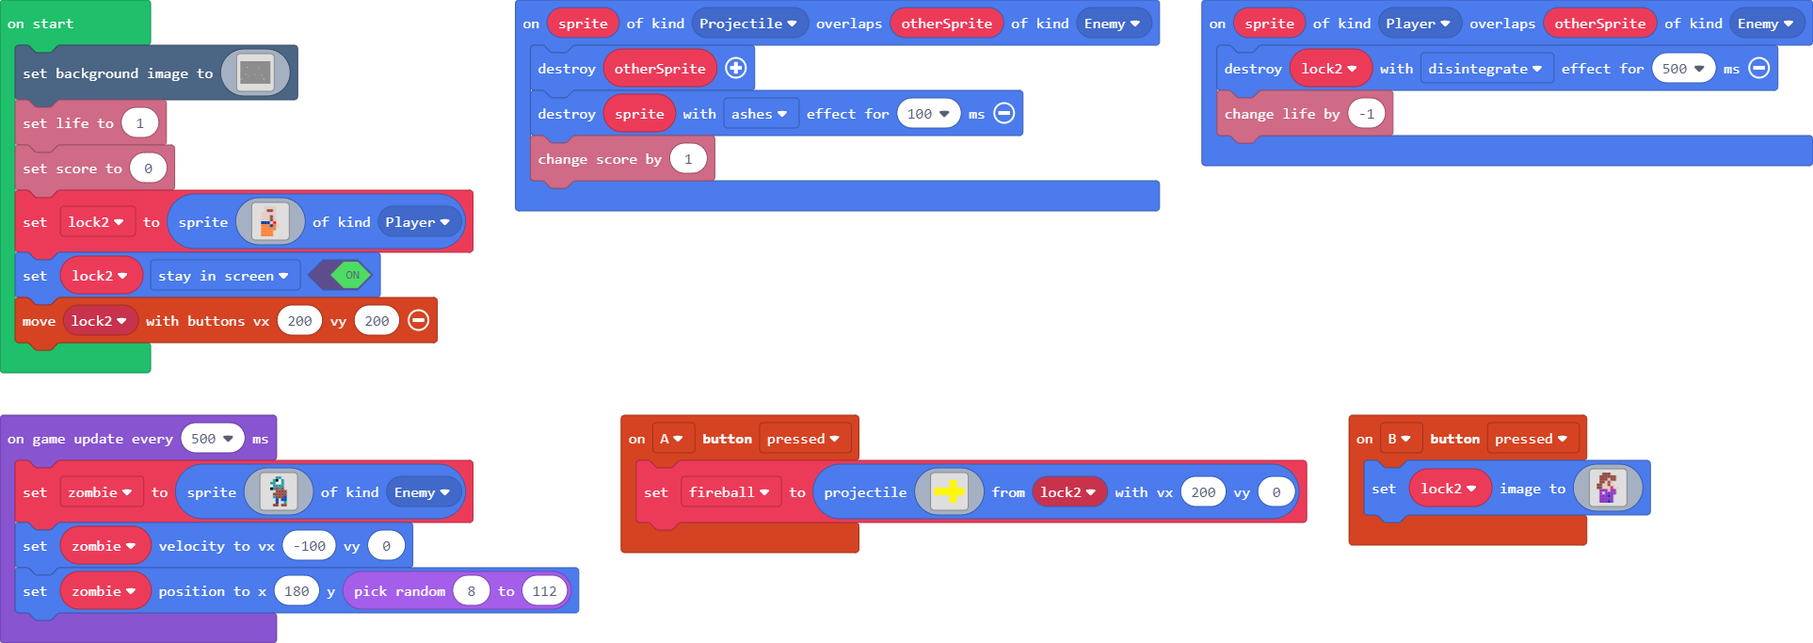
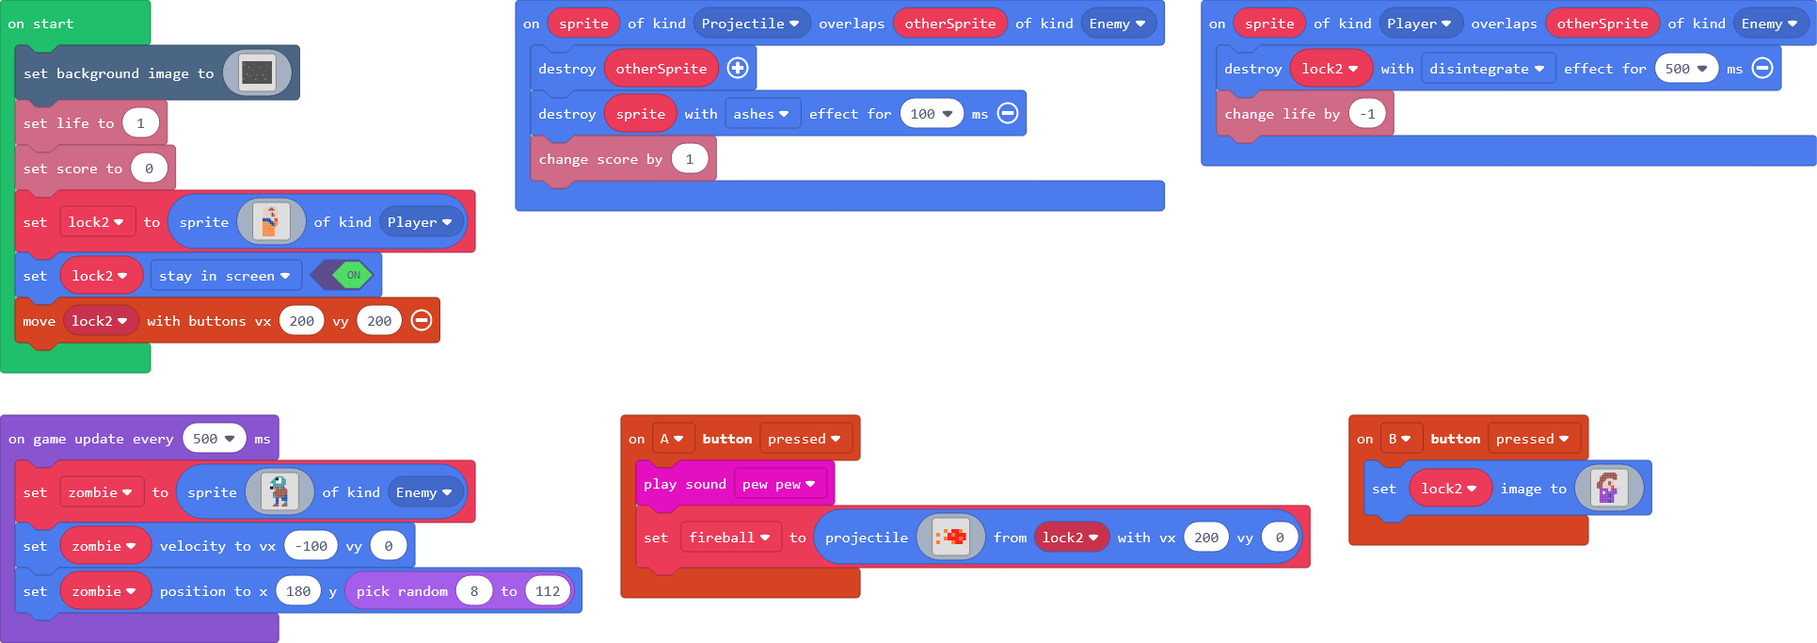
Made sprites larger

diff --git a/main.ts b/main.ts
@@ -1,16 +1,26 @@
 controller.B.onEvent(ControllerButtonEvent.Pressed, function () {
     lock2.setImage(img`
-. . e e e . . . 
-. e e e e e e . 
-. e e e d e e . 
-. e e d e d . . 
-e e d d e d . . 
-e e d d d 2 . d 
-. a a a d a a . 
-. a d a a a a . 
-. a a a 8 a . . 
-. a a a a a . . 
-. a a a 8 a . . 
+. . . . . e e e e e e e e . . . 
+. . . . e e e e e e e e e e . . 
+. . . e e e e e e e e e e e . . 
+. . e e e e e e e e e e e e . . 
+. . e e e e e d d d d e e e . . 
+. . e e e e d d d d d d . . . . 
+. e e e e d d d e e d d . . . . 
+e e e e d d d d e e d d . . . . 
+e e e e d d d d e e d d . . . . 
+e e e e d d d d d d 2 2 . . . . 
+e e e e d d d d d d 2 2 . . d d 
+. . a a a a a a d d a a a a d d 
+. . a a a a a a d d a a a a . . 
+. . a a d d a a a a a a a a . . 
+. . a a d d a a a a a a a a . . 
+. . a a a a a a 8 8 a a . . . . 
+. . a a a a a a 8 8 a a . . . . 
+. . a a a a a a a a a a . . . . 
+. . a a a a a a a a a a . . . . 
+. . a a a a a a 8 8 a a . . . . 
+. . a a a a a a 8 8 a a . . . . 
 `)
 })
 sprites.onOverlap(SpriteKind.Projectile, SpriteKind.Enemy, function (sprite, otherSprite) {
@@ -19,10 +29,14 @@ sprites.onOverlap(SpriteKind.Projectile, SpriteKind.Enemy, function (sprite, oth
     info.changeScoreBy(1)
 })
 controller.A.onEvent(ControllerButtonEvent.Pressed, function () {
+    music.pewPew.play()
     fireball = sprites.createProjectileFromSprite(img`
-. . 5 . 
-5 5 5 5 
-. . 5 . 
+. . . . . . . . 
+. . 4 . 2 2 4 . 
+4 . . 2 4 2 2 2 
+. . 4 2 2 2 4 2 
+4 . . . 4 2 2 . 
+. . . . . . . . 
 `, lock2, 200, 0)
 })
 sprites.onOverlap(SpriteKind.Player, SpriteKind.Enemy, function (sprite, otherSprite) {
@@ -46,15 +60,15 @@ f f f f f f f f f f f f f f f f f f f f f f f f f f f f f f f f f f f f f f f f 
 f f f f f f f f f f f f f f f f f f f f f f f f f f f f f f f f f f f f f f f f f f f f f f f f f f f f f f f f f f f f f f f f f f f f f f f f f f f f f f f f f f f f f f f f f f f f f f f f f f f f f f f f f f f f f f f f f f f f f f f f f f f f f f f f f f f f f f f f f f f f f f f f f f f f f f f f f f f f f f f f 
 f f f f f f f f f f f f f f f f f f f f f f f f f f f f f f f f f f f f f f f f f f f f f f f f f f f f f f f f f f f f f f f f f f f f f f f f f f f f f f f f f f f f f f f f f f f f f f f f f f f f f f f f f f f f f f f f f f f f f f f f f f f f f f f f f f f f f f f f f f f f f f f f f f f f f f f f f f f f f f f f 
 f f f f f f f f f f f f f f f f f f f f f f f f f f f f f f f f f f f f f f f f f f f f f f f f f f f f f f f f f f f f f f f f f f f f f f f f f f f f f f f f f f f f f f f f f f f f f f f f f f f f f f f f f f f f f f f f f f f f f f f f f f f f f f f f f f f f f f f f f f f f f f f f f f f f f f f f f f f f f f f f 
-f f f f f f f f f f f f f f f f f f f f f f f f f f f f f f f f f f f f f f f f f f f f f f f f f f f f f f f f f f f f f f f f f f f f f f f f f f f f f f f f f f f f f f f f f f f f f f f f f f f f f f f f f f f f f f f f f f f f f f f f f f f f f f f f f f f f f f f f f f f f f f f f f f f f f f f f f f f f f f f f 
-f f f f f f f f f f f f f f f f f f f f f f f f f f f f f f f f f f f f f f f f f f f f f f f f f f f f f f f f f f f f f f f f f f f f f f f f f f f f f f f f f f f f f f f f f f f f f f f f f f f f f f f f f f f f f f f f f f f f f f f f f f f f f f f f f f f f f f f f f f f f f f f f f f f f f f f f f f f f f f f f 
-f f f f f f f f f f f f f f f f f f f f f f f f f f f f f f f f f f f f f f f f f f f f f f f f f f f f f f f f f f f f f f f f f f f f f f f f f f f f f f f f f f f f f f f f f f f f f f f f f f f f f f f f f f f f f f f f f f f f f f f f f f f f f f f f f f f f f f f f f f f f f f f f f f f f f f f f f f f f f f f f 
-f f f f f f f f f f f f f f f f f f f f f f f f f f f f f f f f f f f f f f f f f f f f f f f f f f f f f f f f f f f f f f f f f f f f f f f f f f f f f f f f f f f f f f f f f f f f f f f f f f f f f f f f f f f f f f f f f f f f f f f f f f f f f f f f f f f f f f f f f f f f f f f f f f f f f f f f f f f f f f f f 
-f f f f f f f f f f f f f f f f f f f f f f f f f f f f f f f f f f f f f f f f f f f f f f f f f f f f f f f f f f f f f f f f f f f f f f f f f f f f f f f f f f f f f f f f f f f f f f f f f f f f f f f f f f f f f f f f f f f f f f f f f f f f f f f f f f f f f f f f f f f f f f f f f f f f f f f f f f f f f f f f 
-f f f f f f f f f f f f f f f f f f f f f f f f f f f f f f f f f f f f f f f f f f f f f f f f f f f f f f f f f f f f f f f f f f f f f f f f f f f f f f f f f f f f f f f f f f f f f f f f f f f f f f f f f f f f f f f f f f f f f f f f f f f f f f f f f f f f f f f f f f f f f f f f f f f f f f f f f f f f f f f f 
-f f f f f f f f f f f f f f f f f f f f f f f f f f f f f f f f f f f f f f f f f f f f f f f f f f f f f f f f f f f f f f f f f f f f f f f f f f f f f f f f f f f f f f f f f f f f f f f f f f f f f f f f f f f f f f f f f f f f f f f f f f f f f f f f f f f f f f f f f f f f f f f f f f f f f f f f f f f f f f f f 
-f f f f f f f f f f f f f f f f f f f f f f f f f f f f f f f f f f f f f f f f f f f f f f f f f f f f f f f f f f f f f f f f f f f f f f f f f f f f f f f f f f f f f f f f f f f f f f f f f f f f f f f f f f f f f f f f f f f f f f f f f f f f f f f f f f f f f f f f f f f f f f f f f f f f f f f f f f f f f f f f 
-f f f f f f f f f f f f f f f f f f f f f f f f f f f f f f f f f f f f f f f f f f f f f f f f f f f f f f f f f f f f f f f f f f f f f f f f f f f f f f f f f f f f f f f f f f f f f f f f f f f f f f f f f f f f f f f f f f f f f f f f f f f f f f f f f f f f f f f f f f f f f f f f f f f f f f f f f f f f f f f f 
+f f f f f f f f f f f f f d d d d d f f f f f f f f f f f f f f f f f f f f f f f f f f f f f f f f f f f f f f f f f f f d f f d f f f f f f f f f f f f f f f f f f f f f f f f f f f f f f f f f f f f f f f f f f f f f f f f f f f f f f f f f f f f f f f f f f f f f f f f f f f f f f f f f f f f f f f f f f f f f f f 
+f f f f f f f f f f f f f d f f f f d f f f f f f f f f f f f f f f f f f f f f f f f f f f f f f f f f f f f f f f f f f f d d f f f f f f f f f f f f f f f f f f f f f f f f f f f f f f f f f f f f f f f f f f f f f f f f f f f f f f f f f f f f f f f f f f f f f f f f f f f f f f f f f f f f f f f f f f f f f f f f 
+f f f f f f f f f f f f f d f f f f d f f f f f f f f f f f f f f f f f f f f f f f f f f f f f f f f f f f f f f f f f f d f f d f f f f f f f f f f f f f f f f f f f f f f f f f f f f f f f f f f f f f f f f f f f f f f f f f f f f f f f f f f f f f f f f f f f f f f f f f f f f f f f f f f f f f f f f f f f f f f f 
+f f f f f f f f f f f f f d f d d f d f f f f f f f f f f f f f f f f f f f f f f f f f f f f f f f f f f f f f f f f f f f f f f f f f f f f f f f f f f f f f f f f f f f f f f f f f f f f f f f f f f f f f f f f f f f f f f f f f f f f f f f f f f f f f f f f f f f f f f f f f f f f f f f f f f f f f f f f f f f f f 
+f f f f f f f f f f f f f d f f f f d f f f f f f f f f f f f f f f f f f f f f f f f f f f f f f f f f f f f f f f f f f f f f f f f f f f f f f f f f f f f f f f f f f f f f f f f f f f f f f f f f f f f f f f f f f f f f f f f f f f f f f f f f f f f f f f f f f f f f f f f f f f f f f f f f f f f f f f f f f f f f 
+f f f f f f f f f f f f f d f f f f d f f f f f f f f f f f f f f f f f f f f f f f f f f f f f f f f f f f f f f f f f f f f f f f f f f f f f f f f f f f f f f f f f f f f f f f f f f f f f f f f f f f f f f f f f f f f f f f f f f f f f f f f f f f f f f f f f f f f f f f f f f f f f f f f f f f f f f f f f f f f f 
+f f f f f f f f f f f f f f f f f f f f f f f f f f f f f f f f f f f f f f f f f f f f f f f f f f f f f f f f f f f f f f f f f f f f f f f f f f f f f f f f f f f f f f f f f f f f f f f f f f f f f f f f f f f f f f f f f f f f f f f f f f f f f f f f f f f f d f f f f d f f f f f f f f f f f f f f f f f f f f f f 
+f f f f f f f f f f f f f f f f f f f f f f f f f f f f f f f f f f f f f f f f f f f f f f f f f f f f f f f f f f f f f f f f f f f f f f f f f f f f f f f f f f f f f f f f f f f f f f f f f f f f f f f f f f f f f f f f f f f f f f f f f f f f f f f f f f f f f d d d d f f f f f f f f f f f f f f f f f f f f f f f 
+f f f f f f f f f f f f f f f f f f f f f f f f f f f f f f f f f f f f f f f f f f f f f f f f f f f f f f f f f f f f f f f f f f f f f f f f f f f f f f f f f f f f f f f f f f f f f f f f f f f f f f f f f f f f f f f f f f f f f f f f f f f f f f f f f f f f d f f f f d f f f f f f f f f f f f f f f f f f f f f f 
 f f f f f f f f f f f f f f f f f f f f f f f f f f f f f f f f f f f f f f f f f f f f f f f f f f f f f f f f f f f f f f f f f f f f f f f f f f f f f f f f f f f f f f f f f f f f f f f f f f f f f f f f f f f f f f f f f f f f f f f f f f f f f f f f f f f f f f f f f f f f f f f f f f f f f f f f f f f f f f f f 
 f f f f f f f f f f f f f f f f f f f f f f f f f f f f f f f f f f f f f f f f f f f f f f f f f f f f f f f f f f f f f f f f f f f f f f f f f f f f f f f f f f f f f f f f f f f f f f f f f f f f f f f f f f f f f f f f f f f f f f f f f f f f f f f f f f f f f f f f f f f f f f f f f f f f f f f f f f f f f f f f 
 f f f f f f f f f f f f f f f f f f f f f f f f f f f f f f f f f f f f f f f f f f f f f f f f f f f f f f f f f f f f f f f f f f f f f f f f f f f f f f f f f f f f f f f f f f f f f f f f f f f f f f f f f f f f f f f f f f f f f f f f f f f f f f f f f f f f f f f f f f f f f f f f f f f f f f f f f f f f f f f f 
@@ -79,12 +93,12 @@ f f f f f f f f f f f f f f f f f f f f f f f f f f f f f f f f f f f f f f f f 
 f f f f f f f f f f f f f f f f f f f f f f f f f f f f f f f f f f f f f f f f f f f f f f f f f f f f f f f f f f f f f f f f f f f f f f f f f f f f f f f f f f f f f f f f f f f f f f f f f f f f f f f f f f f f f f f f f f f f f f f f f f f f f f f f f f f f f f f f f f f f f f f f f f f f f f f f f f f f f f f f 
 f f f f f f f f f f f f f f f f f f f f f f f f f f f f f f f f f f f f f f f f f f f f f f f f f f f f f f f f f f f f f f f f f f f f f f f f f f f f f f f f f f f f f f f f f f f f f f f f f f f f f f f f f f f f f f f f f f f f f f f f f f f f f f f f f f f f f f f f f f f f f f f f f f f f f f f f f f f f f f f f 
 f f f f f f f f f f f f f f f f f f f f f f f f f f f f f f f f f f f f f f f f f f f f f f f f f f f f f f f f f f f f f f f f f f f f f f f f f f f f f f f f f f f f f f f f f f f f f f f f f f f f f f f f f f f f f f f f f f f f f f f f f f f f f f f f f f f f f f f f f f f f f f f f f f f f f f f f f f f f f f f f 
+f f f f f f f f f f f f f f f f f f f f f f f f f f f f f f f f f f f f f f f f f f f f f f f f f f f f f f f f f f f f f d d f f f f f f f f f f f f f f f f f f f f f f f f f f f f f f f f f f f f f f f f f f f f f f f f f f f f f f f f f f f f f f f f f f f f f f f f f f f f f f f f f f f f f f f f f f f f f f f f f 
+f f f f f f f f f f f f f f f f f f f f f f f f f f f f f f f f f f f f f f f f f f f f f f f f f f f f f f f f f f f d d f f d f f f f f f f f f f f f f f f f f f f f f f f f f f f f f f f f f f f f f f f f f f f f f f f f f f f f f f f f f f f f f f f f f f f f f f f f f f f f f f f f f f f f f f f f f f f f f f f f 
 f f f f f f f f f f f f f f f f f f f f f f f f f f f f f f f f f f f f f f f f f f f f f f f f f f f f f f f f f f f f f f f f f f f f f f f f f f f f f f f f f f f f f f f f f f f f f f f f f f f f f f f f f f f f f f f f f f f f f f f f f f f f f f f f f f f f f f f f f f f f f f f f f f f f f f f f f f f f f f f f 
 f f f f f f f f f f f f f f f f f f f f f f f f f f f f f f f f f f f f f f f f f f f f f f f f f f f f f f f f f f f f f f f f f f f f f f f f f f f f f f f f f f f f f f f f f f f f f f f f f f f f f f f f f f f f f f f f f f f f f f f f f f f f f f f f f f f f f f f f f f f f f f f f f f f f f f f f f f f f f f f f 
 f f f f f f f f f f f f f f f f f f f f f f f f f f f f f f f f f f f f f f f f f f f f f f f f f f f f f f f f f f f f f f f f f f f f f f f f f f f f f f f f f f f f f f f f f f f f f f f f f f f f f f f f f f f f f f f f f f f f f f f f f f f f f f f f f f f f f f f f f f f f f f f f f f f f f f f f f f f f f f f f 
-f f f f f f f f f f f f f f f f f f f f f f f f f f f f f f f f f f f f f f f f f f f f f f f f f f f f f f f f f f f f f f f f f f f f f f f f f f f f f f f f f f f f f f f f f f f f f f f f f f f f f f f f f f f f f f f f f f f f f f f f f f f f f f f f f f f f f f f f f f f f f f f f f f f f f f f f f f f f f f f f 
-f f f f f f f f f f f f f f f f f f f f f f f f f f f f f f f f f f f f f f f f f f f f f f f f f f f f f f f f f f f f f f f f f f f f f f f f f f f f f f f f f f f f f f f f f f f f f f f f f f f f f f f f f f f f f f f f f f f f f f f f f f f f f f f f f f f f f f f f f f f f f f f f f f f f f f f f f f f f f f f f 
-f f f f f f f f f f f f f f f f f f f f f f f f f f f f f f f f f f f f f f f f f f f f f f f f f f f f f f f f f f f f f f f f f f f f f f f f f f f f f f f f f f f f f f f f f f f f f f f f f f f f f f f f f f f f f f f f f f f f f f f f f f f f f f f f f f f f f f f f f f f f f f f f f f f f f f f f f f f f f f f f 
+f f f f f f f f f f f f f f f f f f f f f f f f f f f f f f f f f f f f f f f f f f f f f f f f f f f f f f f f f f f f f f f f f f f f f f f f f f f f f f f f f f f f f f f f f f f f f f f f f f f f f f f f f f f f f f f f f f f f f f f f f f f f d d d f f f f f f f f f f f f f f f f f f f f f f f f f f f f f f f f f 
 f f f f f f f f f f f f f f f f f f f f f f f f f f f f f f f f f f f f f f f f f f f f f f f f f f f f f f f f f f f f f f f f f f f f f f f f f f f f f f f f f f f f f f f f f f f f f f f f f f f f f f f f f f f f f f f f f f f f f f f f f f f f f f f f f f f f f f f f f f f f f f f f f f f f f f f f f f f f f f f f 
 f f f f f f f f f f f f f f f f f f f f f f f f f f f f f f f f f f f f f f f f f f f f f f f f f f f f f f f f f f f f f f f f f f f f f f f f f f f f f f f f f f f f f f f f f f f f f f f f f f f f f f f f f f f f f f f f f f f f f f f f f f f f f f f f f f f f f f f f f f f f f f f f f f f f f f f f f f f f f f f f 
 f f f f f f f f f f f f f f f f f f f f f f f f f f f f f f f f f f f f f f f f f f f f f f f f f f f f f f f f f f f f f f f f f f f f f f f f f f f f f f f f f f f f f f f f f f f f f f f f f f f f f f f f f f f f f f f f f f f f f f f f f f f f f f f f f f f f f f f f f f f f f f f f f f f f f f f f f f f f f f f f 
@@ -104,16 +118,16 @@ f f f f f f f f f f f f f f f f f f f f f f f f f f d f f f d f f f f f f f f f 
 f f f f f f f f f f f f f f f f f f f f f f f f f f d f f d f d f f f f f f f f f f f f f f f f f f f f f f f f f f f f f f f f f f f f f f f f f f f f f f f f f f f f f f f f f f f f f f f f f f f f f f f f f f f f f f f f f f f f f f f f f f f f f f f f f f f f f f f f f f f f f f f f f f f f f f f f f f f f f f f f 
 f f f f f f f f f f f f f f f f f f f f f f f f f f d f d f d f d f f f f f f f f f f f f f f f f f f f f f f f f f f f f f f f f f f f f f f f f f f f f f f f f f f f f f f f f f f f f f f f f f f f f f f f f f f f f f f f f f f f f f f f f f f f f f f f f f f f f f f f f f f f f f f f f f f f f f f f f f f f f f f f 
 f f f f f f f f f f f f f f f f f f f f f f f f f f d f f d f f d f f f f f f f f f f f f f f f f f f f f f f f f f f f f f f f f f f f f f f f f f f f d d d f f f f f f f f f f f f f f f f f f f f f f f f f f f f f f f f f f f f f f f f f f f f f f f f f f f f f f f f f f f f f f f f f f f f f f f f f f f f f f f f f 
-f f f f f f f f f f f f f f f f f f f f f f f f f f d f f d f f d f f f f f f f f f f f f f f f f f f f f f f f f f f f f f f f f f f f f f f f f f f f d d d d f f f f f f f f f f f f f f f f f f f f f f f f f f f f f f f f f f f f f f f f f f f f f f f f f f f f f f f f f f f f f f f f f f f f f f f f f f f f f f f f 
-f f f f f f f f f f f f f f f f f f f f f f f f f f d f f f f f d f f f f f f f f f f f f f f f f f f f f f f f f f f f f f f f f f f f f f f f f f f d d d d d d f f f f f f f f f f f f f f f f f f f f f f f f f f f f f f f f f f f f f f f f f f f f f f f f f f f f f f f f f f f f f f f f f f f f f f f f f f f f f f f 
+f f f f f f f f f f f f f f f f f f f f f f f f f f d f f d f f d f f f f f f f f f f f f f f f f f f f f f f f f f f f f f f f f f f f f f f f f f f f d d f d f f f f f f f f f f f f f f f f f f f f f f f f f f f f f f f f f f f f f f f f f f f f f f f f f f f f f f f f f f f f f f f f f f f f f f f f f f f f f f f f 
+f f f f f f f f f f f f f f f f f f f f f f f f f f d f f f f f d f f f f f f f f f f f f f f f f f f f f f f f f f f f f f f f f f f f f f f f f f f d d f d d d f f f f f f f f f f f f f f f f f f f f f f f f f f f f f f f f f f f f f f f f f f f f f f f f f f f f f f f f f f f f f f f f f f f f f f f f f f f f f f f 
 f f f f f f f f f f f f f f f f f f f f f f f f f f f f f f f f f f f f f f f f f f f f f f f f f f f f f f f f f f f f f f f f f f f f f f f f f f f f f f f f f f f f f f f f f f f f f f f f f f f f f f f f f f f f f f f f 1 1 1 1 f f f f f f f f f f f f f f f f f f f f f f f f f f f f f f f f f f f f f f f f f f f f 
 f f f f f f f f f f f f f f f f f f f f f f f f f f f f f f f f f f f f f f f f f f f f f f f f f f f f f f f f f f f f f f f f f f f f f f f f f f f f f f f f f f f f f f f f f f f f f f f f f f f f f f f f f f f f f f f f 1 d 1 d f f f f f f f f f f f f f f f f f f f f f f f f f f f f f f f f f f f f f f f f f f f f 
 f f f f f f f f f f f f f f f f f f f f f f f f f f f f f f f f f f f f f f f f f f f f f f f f f f f f f f f f f f f f f f f f f f f f f f f f f f f f f f f f f f f f f f f f f f f f f f f f f f f f f f f f f f f f f f f f 1 1 1 1 f f f f f f f f f f f f f f f f f f f f f f f f f f f f f f f f f f f f f f f f f f f f 
 f f f f f f f f f f f f f f f f f f f f f f f f f f f f f f f f f f f f f f f f f f f f f f f f f f f f f f f f f f f f f f f f f f f f f f f f f f f f f f f f f f f f f f f f f f f f f f f f f f f f f f f f f f f f f f f f f 1 1 f f f f f f f f f f f f f f f f f f f f f f f f f f f f f f f f f f f f f f f f f f f f f 
 f f f f f f f f f f f f f f f f f f f f f f f f f f f f f f f f f f f f f f f f f f f f f f f f f f f f f f f f f f f f f f f f f f f f f f f f f f f f f f f f f f f f f f f f f f f f f f f f f f f f f f f f f f f f f f f f f d d f f f f f f f f f f f f f f f f f f f f f f f f f f f f f f f f f f f f f f f f f f f f f 
 f f f f f f f f f f f f f f f f f f f f f f f f f f f f f f f f f f f f f f f f f f f f d d d f f f f f f f f f f f f f f f f f f f f f f f f f f f f f f f f f f f f f f f f f f f f f f f f f f f f f f f f f f f f f f f f f f f f f f f f f f f f f f f f f f f f f f f f f f f f f f f f f f f f f f f f f f f f f f f f f 
-f f f f f f f f f f f f f f f f f f f f f f f f f f f f f f f f f f f f f f f f f f f d d d d d f f f f f f f f f f f f f f f f f f f f f f f f f f f f f f f f f f f f f f f f f f f f f f f f f f f f f f f f f f f f f f f f f f f f f f f f f f f f f f f f f f f f f f f f f f f f f f f f f f f f f f f f f f f f f f f f 
-f f f f f f f f f f f f f f f f f f f f f f f f f f f f f f f f f f f f f f f f f f d d d d d d f f f f f f f f f f f f f f f f f f f f f f f f f f f f f f f f f f f f f f f f f f f f f f f f f f f f f f f f f f f f f f f f f f f f f f f f f f f f f f f f f f f f f f f f f f f f f f f f f f f f f f f f f f f f f f f f 
+f f f f f f f f f f f f f f f f f f f f f f f f f f f f f f f f f f f f f f f f f f f d d f d d f f f f f f f f f f f f f f f f f f f f f f f f f f f f f f f f f f f f f f f f f f f f f f f f f f f f f f f f f f f f f f f f f f f f f f f f f f f f f f f f f f f f f f f f f f f f f f f f f f f f f f f f f f f f f f f f 
+f f f f f f f f f f f f f f f f f f f f f f f f f f f f f f f f f f f f f f f f f f d f d d f d f f f f f f f f f f f f f f f f f f f f f f f f f f f f f f f f f f f f f f f f f f f f f f f f f f f f f f f f f f f f f f f f f f f f f f f f f f f f f f f f f f f f f f f f f f f f f f f f f f f f f f f f f f f f f f f f 
 f f f f f f f f f f f f f f f f f f f f f f f f f f f f f f f f f f f f f f f f f f f f f f f f f f f f f f f f f f f f f f f f f f f f f f f f f f f f f f f f f f f f f f f f f f f f f f f f f f f f f f f f f f f f f f f f f f f f f f f f f f f f f f f f f f f f f f f f f f f f f f f f f f f f f f f f f f f f f f f f 
 f f f f f f f f f f f f f f f f f f f f f f f f f f f f f f f f f f f f f f f f f f f f f f f f f f f f f f f f f f f f f f f f f f f f f f f f f f f f f f f f f f f f f f f f f f f f f f f f f f f f f f f f f f f f f f f f f f f f f f f f f f f f f f f f f f f f f f f f f f f f f f f f f f f f f f f f f f f f f f f f 
 f f f f f f f f f f f f f f f f f f f f f f f f f f f f f f f f f f f f f f f f f f f f f f f f f f f f f f f f f f f f f f f f f f f f f f f f f f f f f f f f f f f f f f f f f f f f f f f f f f f f f f f f f f f f f f f f f f f f f f f f f f f f f f f f f f f f f f f f f f f f f f f f f f f f f f f f f f f f f f f f 
@@ -127,19 +141,19 @@ f f f f f f f f f f f f f f f f f f f f f f f f f f f f f f f f f f f f f f f f 
 f f f f f f f f f f f f f f f f f f f f f f f f f f f f f f f f f f f f f f f f f f f f f f f f f f f f f f f f f f f f f f f f f f f f f f f f f f f f f f f f f f f f f f f f f f f f f f f f f f f f f f f f f f f f f f f f f f f f f f f f f f f d d d d f f f f f f f f f f f f f f f f f f f f f f f f f f f f f f f f f 
 f f f f f d d d d d f f f f f f f f f f f f f f f f f f f f f f f f f f f f f f f f f f f f f f f f f f f f f f f f f f f f f f f f f f f f f f f f f f f f f f f f f f f f f f f f f f f f f f f f f f f f f f f f f f f f f f f f f f f f f f f f d f f f f d f f f f f f f f f f f f f f f f f f f f f f f f f f f f f f f f 
 f f f f d f f f f f d f f f f f f f f f f f f f f f f f f f f f f f f f f f f f f f f f f f f f f f f f f f f f f f f f f f f f f f f f f f f f f f f f f f f f f f f f f f f f f f f f f f f f f f f f f f f f f f f f f f f f f f f f f f f f f f d f f f f d f f f f f f f f f f f f f f f f f f f f f f f f f f f f f f f f 
-f f f f d f f d f f d f f f f f f f f f f f f f f f f f f f f f f f f f f f f f f f f f f f f f f f f f f f f f f f f f f f f f f f f f f f f f f f f f f f f f f f f f f f f f f f f f f f f f f f f f f f f f f f f f f f f f f f f f f f f f f f d f d d f d f f f f f f f f f f f f f f f f f f f f f f f f f f f f f f f f 
-f f f f d f d f d f d f f f f f f f f f f f f f f f f f f f f f f f f f f f f f f f f f f f f f f f f f f f f f f f f f f f f f f f f f f f f f f f f f f f f f f f f f f f f f f f f f f f f f f f f f f f f f f f f f f f f f f f f f f f f f f f d f f f f d f f f f f f f f f f f f f f f f f f f f f f f f f f f f f f f f 
-f f f f d f f d f f d f f f f f f f f f f f f f f f f f f f f f f f f f f f f f f f f f f f f f f f f f f f f f f f f f f f f f f f f f f f f f f f f f f f f f f f f f f f f f f f f f f f f f f f f f f f f f f f f f f f f f f f f f f f f f f f d f d d f d f f f f f f f f f f f f f f f f f f f f f f f f f f f f f f f f 
-f f f f d f f d f f d f f f f f f f f f f f f f f f f f f f f f f f f f f f f f f f f f f f f f f f f f f f f f f f f f f f f f f f f f f f f f f f f f f f f f f f f f f f f f f f f f f f f f f f f f f f f f f f f f f f f f f f f f f f f f f f d f f f f d f f f f f f f f f f f f f f f f f f f f f f f f f f f f f f f f 
-f f f f d f f f f f d f f f f f f f f f f f f f f f f f f f f f f f f f f f f f f f f f f f f f f f f f f f f f f f f f f f f f f f f f f f f f f f f f f f f f f f f f f f f f f f f f f f f f f f f f f f f f f f f f f f f f f f f f f f f f f f d f f f f d f f f f f f f f f f f f f f f f f f f f f f f f f f f f f f f f 
+f f f f d f f d f f d f f f f f f f f f f f f f f f f f f f f f f f f f f f f f f f f f f f f f f f f f f f f f f f f f f f f f f f f f f f f d d d d f f f f f f f f f f f f f f f f f f f f f f f f f f f f f f f f f f f f f f f f f f f f f f f d f d d f d f f f f f f f f f f f f f f f f f f f f f f f f f f f f f f f f 
+f f f f d f d f d f d f f f f f f f f f f f f f f f f f f f f f f f f f f f f f f f f f f f f f f f f f f f f f f f f f f f f f f f f f f f f d f f f d d f f f f f f f f f f f f f f f f f f f f f f f f f f f f f f f f f f f f f f f f f f f f f d f f f f d f f f f f f f f f f f f f f f f f f f f f f f f f f f f f f f f 
+f f f f d f f d f f d f f f f f f f f f f f f f f f f f f f f f f f f f f f f f f f f f f f f f f f f f f f f f f f f f f f f f f f f f f f f d f f f f d f f f f f f f f f f f f f f f f f f f f f f f f f f f f f f f f f f f f f f f f f f f f f d f d d f d f f f f f f f f f f f f f f f f f f f f f f f f f f f f f f f f 
+f f f f d f f d f f d f f f f f f f f f f f f f f f f f f f f f f f f f f f f f f f f f f f f f f f f f f f f f f f f f f f f f f f f f f f f d f d d d d f f f f f f f f f f f f f f f f f f f f f f f f f f f f f f f f f f f f f f f f f f f f f d f f f f d f f f f f f f f f f f f f f f f f f f f f f f f f f f f f f f f 
+f f f f d f f f f f d f f f f f f f f f f f f f f f f f f f f f f f f f f f f f f f f f f f f f f f f f f f f f f f f f f f f f f f f f f f f d f f f f d f f f f f f f f f f f f f f f f f f f f f f f f f f f f f f f f f f f f f f f f f f f f f d f f f f d f f f f f f f f f f f f f f f f f f f f f f f f f f f f f f f f 
+f f f f f f f f f f f f f f f f f f f f f f f f f f f f f f f f f f f f f f f f f f f f f f f f f f f f f f f f f f f f f f f f f f f f f f f d f d d f d f f f f f f f f f f f f f f f f f f f f f f f f f f f f f f f f f f f f f f f f f f f f f f f f f f f f f f f f f f f f f f f f f f f f f f f f f f f f f f f f f f f 
+f f f f f f f f f f f f f f f f f f f f f f f f f f f f f f f f f f f f f f f f f f f f f f f f f f f f f f f f f f f f f f f f f f f f f f f d f f f f d f f f f f f f f f f f f f f f f f f f f f f f f f f f f f f f f f f f f f f f f f f f f f f f f f f f f f f f f f f f f f f f f f f f f f f f f f f f f f f f f f f f 
+f f f f f f f f f f f f f f f f f f f f f f f f f f f f f f f f f f f f f f f f f f f f f f f f f f f f f f f f f f f f f f f f f f f f f f f d f f f f d f f f f f f f f f f f f f f f f f f f f f f f f f f f f f f f f f f f f f f f f f f f f f f f f f f f f f f f f f f f f f f f f f f f f f f f f f f f f f f f f f f f 
 f f f f f f f f f f f f f f f f f f f f f f f f f f f f f f f f f f f f f f f f f f f f f f f f f f f f f f f f f f f f f f f f f f f f f f f f f f f f f f f f f f f f f f f f f f f f f f f f f f f f f f f f f f f f f f f f f f f f f f f f f f f f f f f f f f f f f f f f f f f f f f f f f f f f f f f f f f f f f f f f 
 f f f f f f f f f f f f f f f f f f f f f f f f f f f f f f f f f f f f f f f f f f f f f f f f f f f f f f f f f f f f f f f f f f f f f f f f f f f f f f f f f f f f f f f f f f f f f f f f f f f f f f f f f f f f f f f f f f f f f f f f f f f f f f f f f f f f f f f f f f f f f f f f f f f f f f f f f f f f f f f f 
 f f f f f f f f f f f f f f f f f f f f f f f f f f f f f f f f f f f f f f f f f f f f f f f f f f f f f f f f f f f f f f f f f f f f f f f f f f f f f f f f f f f f f f f f f f f f f f f f f f f f f f f f f f f f f f f f f f f f f f f f f f f f f f f f f f f f f f f f f f f f f f f f f f f f f f f f f f f f f f f f 
 f f f f f f f f f f f f f f f f f f f f f f f f f f f f f f f f f f f f f f f f f f f f f f f f f f f f f f f f f f f f f f f f f f f f f f f f f f f f f f f f f f f f f f f f f f f f f f f f f f f f f f f f f f f f f f f f f f f f f f f f f f f f f f f f f f f f f f f f f f f f f f f f f f f f f f f f f f f f f f f f 
-f f f f f f f f f f f f f f f f f f f f f f f f f f f f f f f f f f f f f f f f f f f f f f f f f f f f f f f f f f f f f f f f f f f f f f f f f f f f f f f f f f f f f f f f f f f f f f f f f f f f f f f f f f f f f f f f f f f f f f f f f f f f f f f f f f f f f f f f f f f f f f f f f f f f f f f f f f f f f f f f 
-f f f f f f f f f f f f f f f f f f f f f f f f f f f f f f f f f f f f f f f f f f f f f f f f f f f f f f f f f f f f f f f f f f f f f f f f f f f f f f f f f f f f f f f f f f f f f f f f f f f f f f f f f f f f f f f f f f f f f f f f f f f f f f f f f f f f f f f f f f f f f f f f f f f f f f f f f f f f f f f f 
-f f f f f f f f f f f f f f f f f f f f f f f f f f f f f f f f f f f f f f f f f f f f f f f f f f f f f f f f f f f f f f f f f f f f f f f f f f f f f f f f f f f f f f f f f f f f f f f f f f f f f f f f f f f f f f f f f f f f f f f f f f f f f f f f f f f f f f f f f f f f f f f f f f f f f f f f f f f f f f f f 
-f f f f f f f f f f f f f f f f f f f f f f f f f f f f f f f f f f f f f f f f f f f f f f f f f f f f f f f f f f f f f f f f f f f f f f f f f f f f f f f f f f f f f f f f f f f f f f f f f f f f f f f f f f f f f f f f f f f f f f f f f f f f f f f f f f f f f f f f f f f f f f f f f f f f f f f f f f f f f f f f 
+f f f f f f f f f f f f f f f f f f f f f f f f f f f f f f f f f f f f f f f f f f f f d d f f f f f f f f f f f f f f f f f f f f f f f f f f f f f f f f f f f f f f f f f f f f f f f f f f f f f f f f f f f f f f f f f f f f f f f f f f f f f f f f f f f f f f f f f f f f f f f f f f f f f f f f f f f f f f f f f f 
 f f f f f f f f f f f f f f f f f f f f f f f f f f f f f f f f f f f f f f f f f f f f f f f f f f f f f f f f f f f f f f f f f f f f f f f f f f f f f f f f f f f f f f f f f f f f f f f f f f f f f f f f f f f f f f f f f f f f f f f f f f f f f f f f f f f f f f f f f f f f f f f f f f f f f f f f f f f f f f f f 
 f f f f f f f f f f f f f f f f f f f f f f f f f f f f f f f f f f f f f f f f f f f f f f f f f f f f f f f f f f f f f f f f f f f f f f f f f f f f f f f f f f f f f f f f f f f f f f f f f f f f f f f f f f f f f f f f f f f f f f f f f f f f f f f f f f f f f f f f f f f f f f f f f f f f f f f f f f f f f f f f 
 f f f f f f f f f f f f f f f f f f f f f f f f f f f f f f f f f f f f f f f f f f f f f f f f f f f f f f f f f f f f f f f f f f f f f f f f f f f f f f f f f f f f f f f f f f f f f f f f f f f f f f f f f f f f f f f f f f f f f f f f f f f f f f f f f f f f f f f f f f f f f f f f f f f f f f f f f f f f f f f f 
@@ -157,32 +171,52 @@ f f f f f f f f f f f f f f f f f f f f f f f f f f f f f f f f f f f f f f f f 
 info.setLife(1)
 info.setScore(0)
 lock2 = sprites.create(img`
-. d d d d . 
-. d e e d . 
-d d d d d . 
-d d d e d . 
-d d d e d . 
-8 8 8 d 2 . 
-4 4 4 8 4 d 
-4 4 4 4 4 . 
-4 4 4 4 . . 
-4 4 4 4 . . 
+. . d d d d d d d . . . 
+. d d d d e e d d d . . 
+. d d d e e e e d d . . 
+d d d d d d d d d d . . 
+d d d d d d e d d d . . 
+d d d d d d e e d d . . 
+d d d d d d e e d d . . 
+d d d d d d d d d d . . 
+8 8 8 8 8 d d d 2 2 . . 
+8 8 8 8 8 8 d d 2 2 . . 
+4 4 4 4 8 8 8 4 4 4 d d 
+4 4 4 4 4 8 8 8 4 4 d d 
+4 4 4 4 4 4 8 8 4 4 . . 
+4 4 4 4 4 4 4 4 4 . . . 
+4 4 4 4 4 4 4 4 . . . . 
+4 4 4 4 4 4 4 4 . . . . 
+4 4 4 4 4 4 4 4 . . . . 
+4 4 4 4 4 4 4 4 . . . . 
+4 4 4 4 4 4 4 4 . . . . 
+4 4 4 4 4 4 4 4 . . . . 
 `, SpriteKind.Player)
 lock2.setFlag(SpriteFlag.StayInScreen, true)
 controller.moveSprite(lock2, 200, 200)
 game.onUpdateInterval(500, function () {
     zombie = sprites.create(img`
-. . 6 6 . . 
-. 6 f 1 6 . 
-6 6 1 1 6 . 
-1 6 6 6 6 . 
-f 6 2 6 e . 
-. . e e e e 
-. e e e e e 
-. 6 e e e 8 
-. . 8 . 8 8 
-. . 8 . . 6 
-. e e . e e 
+. . . . 6 6 6 6 6 . . . 
+. . . 6 f f 1 1 6 6 . . 
+. . 6 6 f f 1 1 6 6 6 . 
+. 6 6 6 1 1 1 1 6 6 6 . 
+6 6 6 6 1 1 1 1 6 6 6 . 
+1 1 6 6 6 6 6 6 6 6 6 . 
+1 1 6 6 6 6 6 6 6 6 . . 
+f f 6 6 2 2 6 6 e e . . 
+f f 6 6 2 2 6 6 e e e . 
+. . . . e e e e e e e e 
+. . . e e e e e e e e e 
+. . e e e e e e e e e e 
+. . e e e e e e e e e e 
+. . 6 6 e e e e e e 8 8 
+. . 6 6 e e e e e e 8 8 
+. . . . 8 8 . . 8 8 8 8 
+. . . . 8 8 . . 8 8 8 8 
+. . . . 8 8 . . . . 6 6 
+. . . . 8 8 . . . . 6 6 
+. . . e e e . . . e e e 
+. . e e e e . . e e e e 
 `, SpriteKind.Enemy)
     zombie.setVelocity(-100, 0)
     zombie.setPosition(180, Math.randomRange(8, 112))
